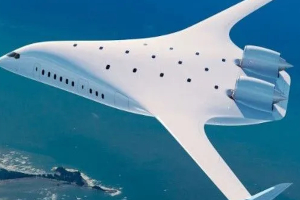
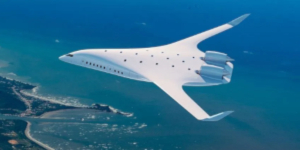
update

diff --git a/pag02.html b/pag02.html
@@ -38,17 +38,32 @@
 </nav>
 <main id="box">
     <section class="container">
-        <div>
-            <p class="paragraph-container1">Notícias pelo mundo</p>
-
-            <abbr title="Porta voz do Ministério da defesa da China Wu Qian em Pequim"><img class="photo-porta-voz" src="imagens/porta-voz.jpeg" alt="Porta-voz"></abbr>
-    
-            <p class="paragraph-container2"> Em nova escalada de tensão, China envia aviões de guerra a Taiwan</p>
+        
+            <div>
+                <p class="paragraph-container1">Notícias pelo mundo</p>
+                
+                <abbr title="Porta voz do Ministério da defesa da China Wu Qian em Pequim"><img class="photo-porta-voz" src="imagens/porta-voz.jpeg" alt="Porta-voz"></abbr>
+                <h1 class="title-div-1"> Em nova escalada de tensão, China envia aviões de guerra a Taiwan</h1>
+                
+                <p class="paragraph-container3">O Ministério da Defesa da China acusou o governo de Taiwan, nesta quinta-feira (28), de insinuar uma ameaça militar da China para obter ganhos eleitorais antes das eleições na ilha, que ocorrerão em pouco mais de duas semana. Na contramão disso, a pasta enviou aviões de guerra para o Estreito de Taiwan.
+                Em uma coletiva de imprensa mensal em Pequim, o porta-voz do Ministério da Defesa chinês, Wu Qian, culpou o governo de Taiwan pelas tensões.</p>
+            </div>
             
-            <p class="paragraph-container3">Lorem, ipsum dolor sit amet consectetur adipisicing elit. Atque, consequatur a suscipit quae totam accusamus! Fugit molestiae magni placeat, fuga natus minima provident suscipit nemo, porro maiores officiis nihil repudiandae? Lorem ipsum dolor sit amet consectetur adipisicing elit. Et fuga aspernatur a eius quam expedita voluptates suscipit repudiandae, debitis temporibus nihil ad accusamus adipisci minus ullam voluptatibus molestias perspiciatis! Quis?</p>
-        </div>
-    
-        <div class="detalhe"></div>
+            <span class="detalhe"></span>
+            
+            <div class="box-container2">
+                
+                <h1 class="title-div-2">JetZero: Este novo projeto de avião é o futuro da aviação?</h1>
+                
+                <p class="paragraph-container4">
+                    Formato "corpo e asa combinados" permitiria uma configuração diferente de assentos e poderia oferecer 50% menos queima de combustível
+                </p>
+
+                <abbr title="Design renderizado de aeronave de corpo e asas combinados da JetZero"><img class="photo-jetZero" src="imagens/jetZero.jpeg" alt="Jetzero"></abbr>
+                
+                
+            </div>
+
     </section>
 </main>
 </body>

diff --git a/estilopag02/style.css b/estilopag02/style.css
@@ -46,7 +46,7 @@ input[type=text] {
 }
 
 .bot2 {
-    background-color: #3CB371;
+    background-color: #08308F;
     color: white;
 }
 
@@ -69,7 +69,7 @@ input[type=text] {
     justify-content: space-between;
     align-items: center;
     padding: 10px;
-    background-color: #1E90FF;
+    background-color: #1e8fffaf;
 }
 
 .links > .menu {
@@ -96,15 +96,20 @@ input[type=text] {
 
 #box {
     min-width: 320px;
-    max-width: 1500px;
+    max-width: 1440px;
     margin: auto;
     padding: 20px;
+    font-family: Arial, Helvetica, sans-serif;
 }
 
 .container {
     display: grid;
-    grid-template-columns: repeat(6,1fr);
+    grid-template-columns: repeat(4,1fr);
     gap: 10px;
+}
+
+.box-container2 {
+    display: flex;
 }
 
 .photo-porta-voz {
@@ -117,27 +122,58 @@ input[type=text] {
     cursor: pointer;
 }
 
-.paragraph-container1 {
-    color: #224AF5;
-    margin: 0px 10px;
+.photo-jetZero {
+    margin-right: 550px;
+    margin-top: 30px;
+    transition: 0.5s;
+    float: right;
+}
+
+.photo-jetZero:hover {
+    transform: scale(0.95);
+    cursor: pointer;
+}
+
+.title-div-1 {
+    margin: 0px 0px 10px 10px;
     font-variant: small-caps;
-    font-family: Arial, Helvetica, sans-serif;
-}
-
-.paragraph-container2 {
     font-size: 17pt;
-    margin: 10px;  
 }
 
-.paragraph-container2:hover {
+.title-div-1:hover {
     color: #3787F4;
     cursor: pointer;
+}
+
+.title-div-2 {
+    font-size: 15pt;
+}
+
+.title-div-2:hover {
+    color: #3787F4;
+    cursor: pointer;
+}
+
+.paragraph-container1 {
+    color: #224AF5;
+    font-size: 12pt;
+    margin-left: 10px;
+}
+
+.paragraph-container3 {
+    margin-left: 10px;
+    text-align: justify;
+    font-size: 9.5pt;
+}
+
+.paragraph-container4 {
+    text-align: justify;
+    font-size: 8pt;
 }
 
 .detalhe {
     background-color: #37505da6;
     width: 1px;
-    margin-top: 10px;
 }
 
 

diff --git a/estilos/mediaquery.css b/estilos/mediaquery.css
@@ -10,11 +10,11 @@
         background-repeat: no-repeat;
         background-position: center center;
         background-attachment: fixed;
-        margin: 0px;
         display: flex;
         justify-content: center;
         align-items: center;
         width: 100%;
+        margin: 0px;
     }
 
     
